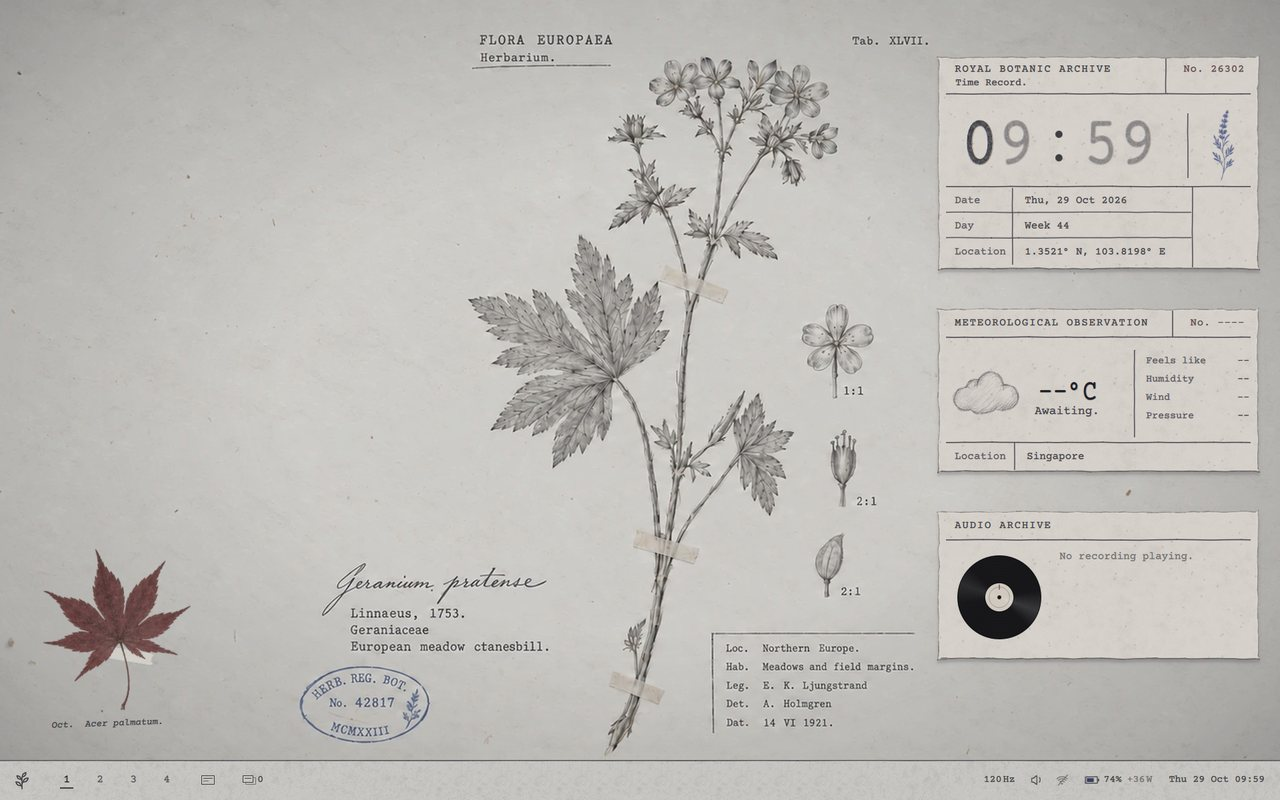
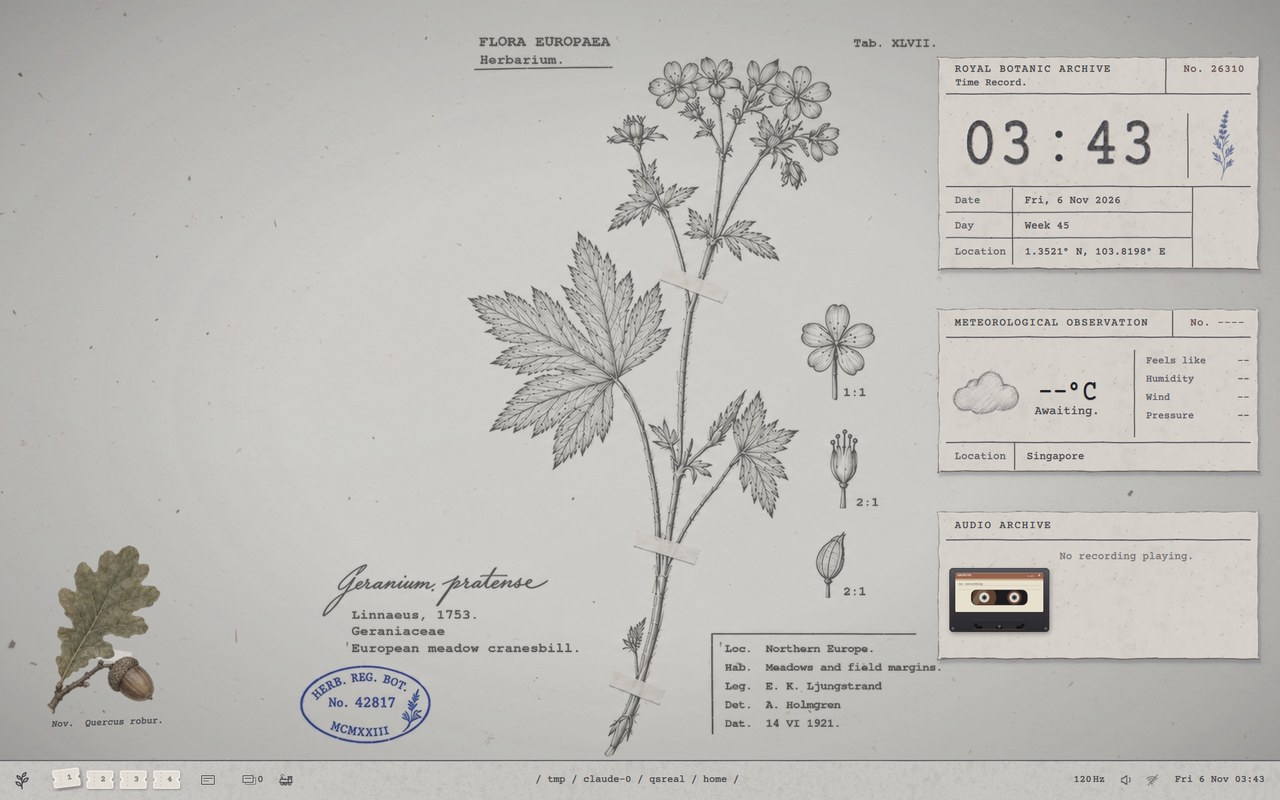
Night Service portrait; the sheet waits for its theme; refinements
- the girl on the night train as Night Service's terminal portrait
  (art/night-service/portrait.webp, import_portrait --theme); archive-card
  shows the portrait of the session's theme, cached apart
- the wallpaper waits until the session's theme is known, so a variant's
  session never decodes the Archive's sheet first
- a train turned off while the next was still waiting off screen no
  longer makes one more run
- the Archive's previews in Themes show its current sheet

Claude-Session: https://claude.ai/code/session_01Gt7tu4gfoEos1TAjQ1a4QF

diff --git a/dotfiles/.config/quickshell/services/Flavour.qml b/dotfiles/.config/quickshell/services/Flavour.qml
@@ -30,6 +30,12 @@ Singleton {
     property string theme: "archive"
     property var f: ({})
     property bool fromMark: false
+    // known: which theme, and (for a variant) what it changes. Until then the
+    // sheet waits, so a variant's session never loads the Archive's first.
+    property bool resolved: false
+    property bool manifestDone: false
+    readonly property bool ready: resolved && (theme === "archive" || manifestDone)
+    Timer { interval: 1500; running: !root.ready; onTriggered: { root.resolved = true; root.manifestDone = true; } }
 
     function word(key: string, fallback: string): string {
         const v = f[key];
@@ -52,10 +58,12 @@ Singleton {
         path: Settings.configHome + "/archive/theme"
         printErrors: false
         onLoaded: if (!root.fromMark) root.useTheme(text())
+        onLoadFailed: if (!root.fromMark) root.useTheme("archive")
     }
     function useTheme(t: string): void {
         const id = (t || "").trim().replace(/[^A-Za-z0-9_-]/g, "") || "archive";
         theme = id;
+        resolved = true;
     }
     FileView {
         id: manifest
@@ -66,6 +74,8 @@ Singleton {
                 const j = JSON.parse(text());
                 root.f = j.base === "archive" && j.flavour ? j.flavour : {};
             } catch (e) { root.f = {}; }
+            root.manifestDone = true;
         }
+        onLoadFailed: root.manifestDone = true
     }
 }

diff --git a/dotfiles/.config/quickshell/modules/train/TrainRun.qml b/dotfiles/.config/quickshell/modules/train/TrainRun.qml
@@ -44,6 +44,8 @@ PanelWindow {
         running: Trainset.running && win.length > 0
         onTriggered: {
             win.t += Math.min(frameTime, 0.05);
+            // turned off while the next was still waiting to come on: it does not
+            if (!Trainset.on && win.trainX + win.length < 0 && win.t < win.start) { Trainset.running = false; return; }
             // gone off the right edge: another, or the last
             if (win.trainX > win.width) {
                 if (Trainset.on) win.start = win.t + win.gap;

diff --git a/dotfiles/.config/quickshell/services/Plates.qml b/dotfiles/.config/quickshell/services/Plates.qml
@@ -23,6 +23,7 @@ Singleton {
     property bool metaLoaded: false         // until then, nothing is known about the plate's files
 
     readonly property string current: {
+        if (!Flavour.ready) return "";
         // a theme with a sheet of its own (Flavour) always shows it
         if (Flavour.plate !== "") return Flavour.plate;
         if (Settings.fixedPlate !== "" && index.indexOf(Settings.fixedPlate) >= 0) return Settings.fixedPlate;

diff --git a/tools/import_portrait.py b/tools/import_portrait.py
@@ -42,8 +42,25 @@ def colour_to_alpha(rgb):
     return np.dstack([col * 255, a * 255]).astype(np.uint8)
 
 
+# other themes' portraits (python3 tools/import_portrait.py --theme night-service):
+# written beside the Archive's as portrait-<theme>.png; archive-card shows the
+# one for the theme of the session
+OTHER = {
+    "night-service": {"src": ROOT / "art" / "night-service" / "portrait.webp",
+                      # its edge already fades out: no trim, a softer, squarer cut
+                      "trim": (0.0, 0.0, 0.0, 0.0), "feather": 0.07, "round": 5.0},
+}
+
+
 def main():
-    src = pathlib.Path(sys.argv[1]) if len(sys.argv) > 1 else SRC
+    global TRIM, FEATHER, ROUND, DST
+    if "--theme" in sys.argv:
+        theme = sys.argv[sys.argv.index("--theme") + 1]
+        o = OTHER[theme]
+        src, TRIM, FEATHER, ROUND = o["src"], o["trim"], o["feather"], o["round"]
+        DST = DST.with_name("portrait-%s.png" % theme)
+    else:
+        src = pathlib.Path(sys.argv[1]) if len(sys.argv) > 1 else SRC
     im = Image.open(src).convert("RGB")
     rgba = Image.fromarray(colour_to_alpha(np.asarray(im)), "RGBA")
     # trimmed to the drawing, with a hair of room
